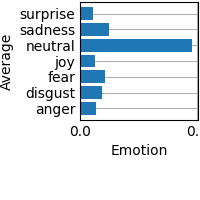
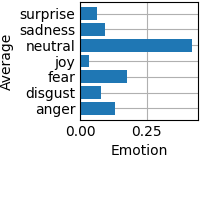
testing different keywords

diff --git a/scr/emotion_extraction.py b/scr/emotion_extraction.py
@@ -27,7 +27,7 @@ def load_data(keyword): #takes path to the data as argument
         return data_fake
     elif keyword.upper() == "REAL":
         data_real = data[data['label'] == 'REAL']
-        return data_real[:10]
+        return data_real
 
 classifier = define_classifier() #calling classifier function and saving it into variable 'classifier'
 
